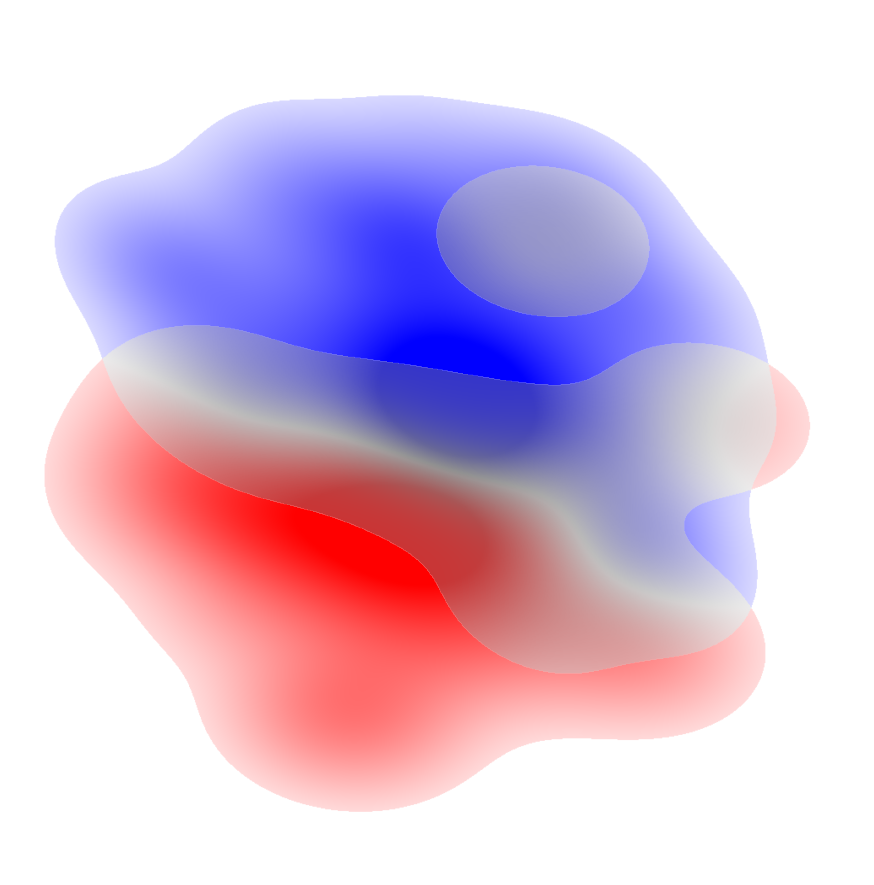
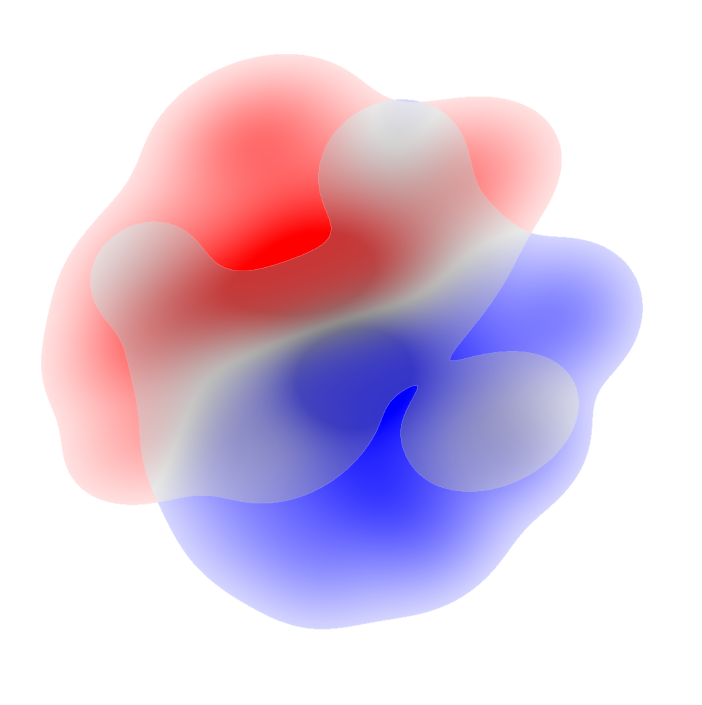
remove PEAK_TROP from model, retrain, regenerate all artifacts
- Excluded PEAK_TROP from COLS_TO_EXCLUDE in both notebooks
- Retrained full nested CV + Optuna pipeline (44 features)
- Ensemble: VotingClassifier(LR+SVC+RF)
- Test: Accuracy=0.9375, Recall=0.9286, F1=0.9352, AUC=0.9722
- Regenerated embedding_data.npz, tsne_scaler.pkl, diagnostic_landscape.png
- Removed temporary imputation hack from app.py

diff --git a/app.py b/app.py
@@ -652,10 +652,6 @@ LAB_ECG_FEATURES = [
     "ECG_Q waves", "MRI_T2", "INHOSPITAL_EX", "EX_TARIHI", "BMI"
 ]
 
-# Modelden çıkarıldı ama model henüz yeniden train edilmedi;
-# model yeniden eğitilene kadar bu değerler training mean ile otomatik doldurulur.
-_PENDING_REMOVAL_FEATURES = {"PEAK_TROP": 305.07}
-
 # Klinik olarak tam sayı rapor edilen numerik özellikler
 _INTEGER_FEATURES = {
     "AGE", "Any Previous Pain Attacks",
@@ -816,9 +812,6 @@ if artifacts is not None:
                 st.warning(T("warning_all_required"))
 
         else:
-            for feat, val in _PENDING_REMOVAL_FEATURES.items():
-                if feat in feature_list:
-                    patient_data[feat] = val
             X_new_df = pd.DataFrame([patient_data])[feature_list]
             x_new_unc = model.named_steps['uncertainty'].transform(X_new_df)
             x_new_vec_raw = x_new_unc[0]